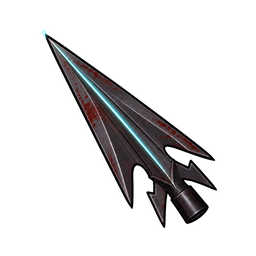
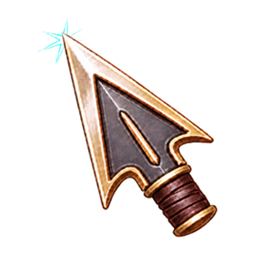
08-12 14:33
- 작업 환경: 데스크탑
- 게임 기본·클릭 커서를 작살촉 이미지로 교체
- 커서 투명 배경과 작살촉 Hotspot 적용
- 커서 최종 크기를 최초 대비 90.25%로 조정

Changed region(s): [[0.1562, 0.0625, 0.875, 0.9375]]

diff --git a/Assets/Scripts/UI/GameCursorController.cs b/Assets/Scripts/UI/GameCursorController.cs
@@ -9,13 +9,13 @@ public sealed class GameCursorController : MonoBehaviour
     private const string ClickCursorResourcePath = "Cursor/Click";
 
     private static readonly Vector2 NormalHotspotRatio = new Vector2(
-        40f / 256f,
-        25f / 256f
+        46f / 256f,
+        19f / 256f
     );
 
     private static readonly Vector2 ClickHotspotRatio = new Vector2(
-        36f / 256f,
-        24f / 256f
+        66f / 256f,
+        36f / 256f
     );
 
     private static GameCursorController instance;

diff --git a/Docs/DEVLOG.md b/Docs/DEVLOG.md
@@ -409,6 +409,17 @@
 - 관련 경로: `Assets/Scripts/Scenes/Managers/TitleManager.cs`
 - 검증: 정적 호출 경로 및 Unity 컴파일 로그 점검, 새 게임·이어하기 Play Mode 회귀 확인 필요
 
+## 2026-08-12 — 게임 마우스 커서 이미지 교체
+
+- 기본 커서를 금색 테두리와 가죽 손잡이가 있는 작살촉 이미지로 교체
+- 좌클릭 중에는 작살촉 끝에 청록색 반짝임이 표시되는 별도 커서 적용
+- 두 원본의 흰 배경을 투명 처리하고 256×256 커서 텍스처로 정리
+- 일반·클릭 이미지의 여백 차이를 반영해 각각 작살촉 끝으로 Hotspot 재설정
+- 일반·클릭 커서 본체를 5% 축소하고 변경된 작살촉 위치에 맞춰 Hotspot 재보정
+- 축소된 커서에서 다시 5% 축소해 최초 크기의 90.25%로 조정하고 Hotspot 재보정
+- 관련 경로: `Assets/Resources/Cursor`, `Assets/Scripts/UI/GameCursorController.cs`
+- 검증: 이미지 알파 및 정적 Hotspot 점검, Unity Play Mode 시각 확인 필요
+
 ## 2026-08-11 — 게임 화면 전환 페이드
 
 - 런타임 전역 검은색 오버레이와 코루틴 기반 `ScreenFadeController` 추가

diff --git a/CURRENT_TASK.md b/CURRENT_TASK.md
@@ -376,6 +376,32 @@ Assets/Scripts 폴더 구조 정리 1단계 — Managers 역할별 분류
 
 ## 작업명
 
+게임 마우스 커서 이미지 교체
+
+## 현재 상태
+
+구현 완료 — Unity Play Mode 시각 확인 필요
+
+## 수정 대상
+
+- `Assets/Resources/Cursor/Nomal.png`
+- `Assets/Resources/Cursor/Click.png`
+- `Assets/Scripts/UI/GameCursorController.cs`
+- `CURRENT_TASK.md`
+- `Docs/DEVLOG.md`
+
+## 완료 조건
+
+- 기본 상태에서 금색 테두리의 작살촉 커서를 표시한다.
+- 좌클릭 중에는 작살촉 끝에 청록색 반짝임이 있는 커서로 전환한다.
+- 두 이미지의 흰 배경은 투명 처리한다.
+- 일반·클릭 상태 전환 중 실제 클릭 지점은 작살촉 끝에 고정한다.
+- 일반·클릭 커서 본체는 5%씩 두 차례 축소해 최초 적용 크기의 90.25%로 표시한다.
+
+# 현재 작업 변경
+
+## 작업명
+
 게임 화면 전환 페이드
 
 ## 현재 상태
